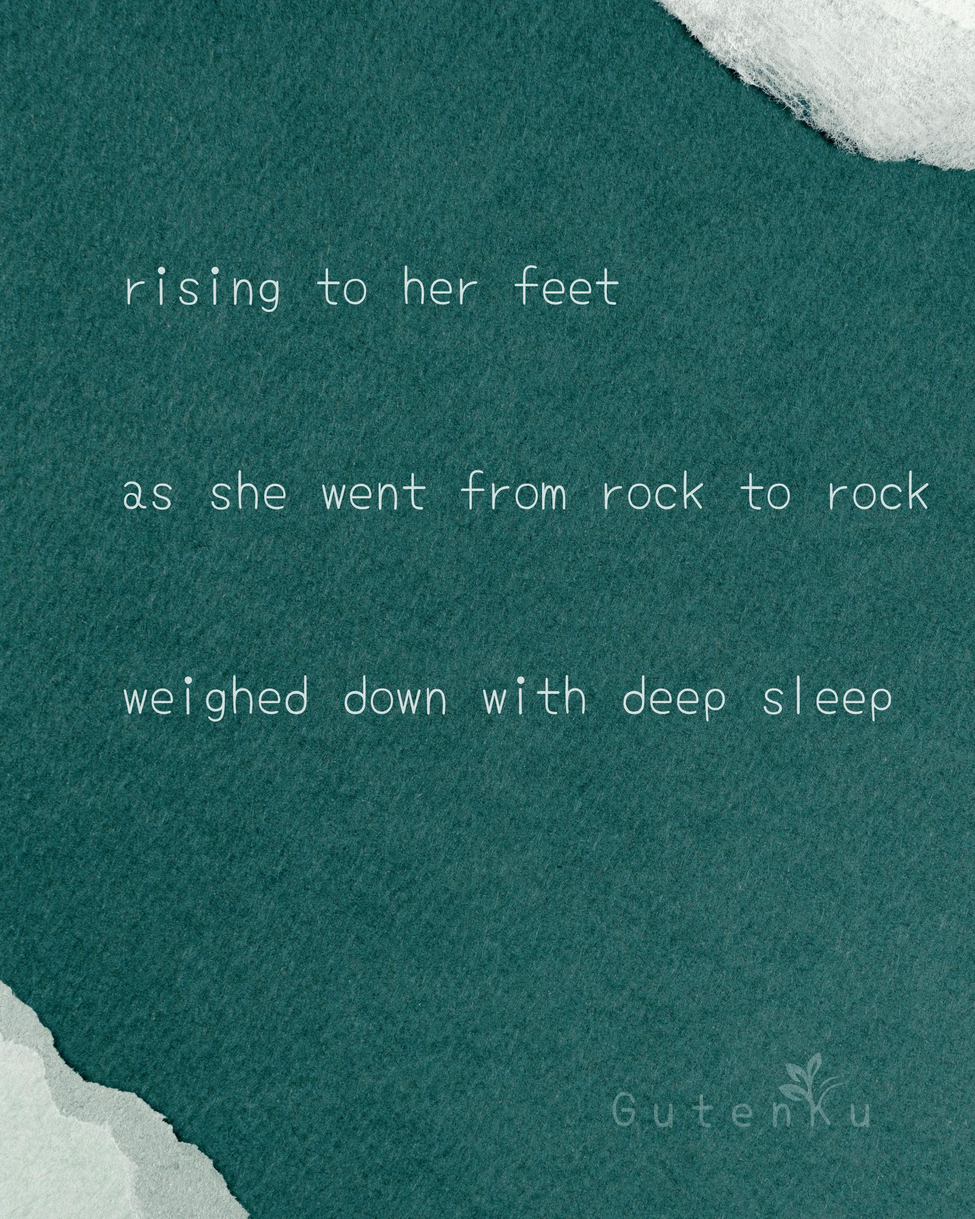
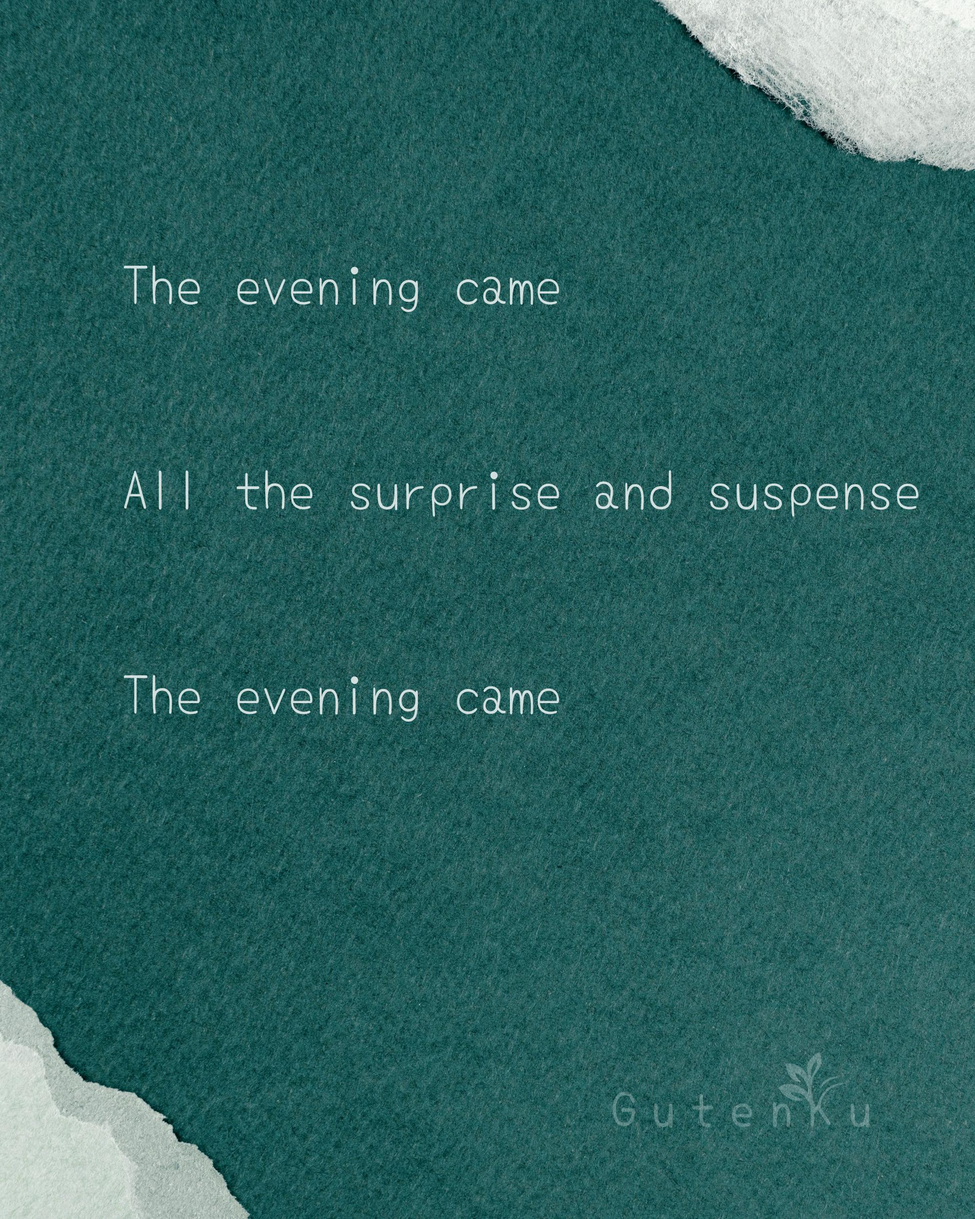
docs(readme): updated daily haiku card

diff --git a/README.md b/README.md
@@ -25,13 +25,13 @@
 <table>
 <tr>
 <td width="300" valign="top">
-<img src="/assets/img/daily_haiku_card.jpg?t=1790676044" width="280" alt="Daily Haiku Card">
+<img src="/assets/img/daily_haiku_card.jpg?t=1790762439" width="280" alt="Daily Haiku Card">
 </td>
 <td valign="top">
 
-> _"This haiku paints a quiet, vivid image of someone moving between rocks while half-asleep. The phrase “rising to her feet” suggests a slow, effortful awakening, as if she is struggling to become fully alert. “As she went from rock to rock” creates a sense of careful, uneven movement across a rough landscape, which may symbolize a difficult journey in life or mind. The final line, “weighed down with deep sleep,” gives the poem its emotional depth: sleep is described almost like a heavy burden, making the figure seem dreamy, exhausted, or lost in a state between waking and dreaming. The haiku’s simplicity and spare language leave room for mystery, inviting the reader to imagine both the physical scene and the inner stillness it reflects."_
+> _"This haiku captures the calm yet mysterious feeling of evening arriving. The repeated line, "The evening came," creates a sense of inevitability, as if night is gently but steadily taking over. The middle line, "All the surprise and suspense," suggests that dusk brings a moment of anticipation, a pause between day and night when anything can seem possible. As an English Literature Teacher might explain it, the poem uses repetition and simplicity to emphasize mood rather than action. It evokes the emotional transition of the day ending, blending wonder, stillness, and a slight sense of drama."_
 
-— **BotenKu** 📅 _Sep 29, 2026_
+— **BotenKu** 📅 _Sep 30, 2026_
 
 </td>
 </tr>
